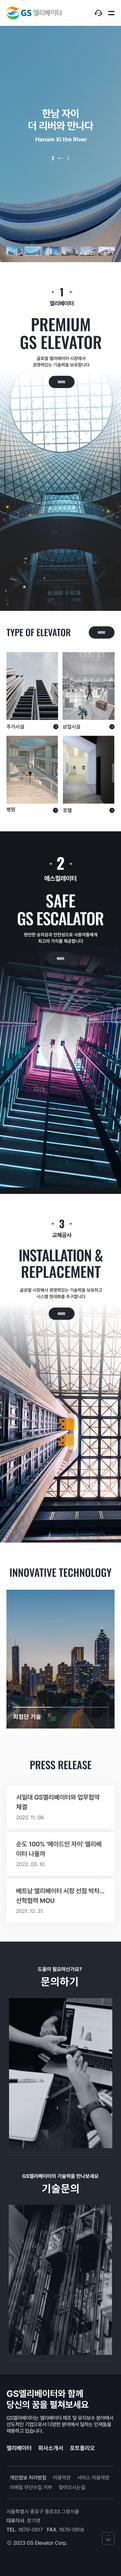
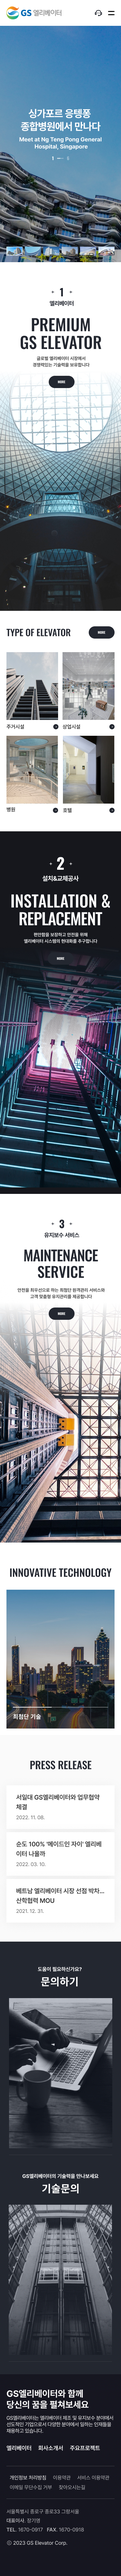
FEAT: 최종(#)

diff --git a/index.html b/index.html
@@ -194,6 +194,9 @@
                                     <div class="swiper-slide">
                                         <img src="./assets/images/img05.jpg" alt="">
                                     </div>
+                                    <div class="swiper-slide">
+                                        <img src="./assets/images/img06.jpg" alt="">
+                                    </div>
                                 </div>
                             </div>
                         </div>
@@ -279,7 +282,7 @@
             </section>
             <!-- // -->
             <!-- TECH -->
-            <section class="section main-tech" data-color="default">
+            <section class="section main-tech" data-color="default" data-index="0">
                 <h2 style="text-align:center">
                     <img src="./assets/images/text04.png" alt="">
                 </h2>
@@ -366,7 +369,7 @@
                                     </figure>
                                 </div>
                                 <div class="main-bottom__contents">
-                                    <img src="./assets/images/text06.png" alt="">
+                                    <img src="./assets/images/text07.png" alt="">
                                 </div>
                             </div>
                         </li>
@@ -423,7 +426,7 @@
 
                         if (currentSection === 1) {
                             let scRatio = (scTop - sectionsTop[i]) / sectionsTop[i] / 2;
-                            console.log(scRatio * 100);
+                            // console.log(scRatio * 100);
                             $('#ev01 .floor__inner').css('transform', `translateY(-${scRatio * 100}%)`);
                             $('#ev01 .floor__bg-inner').css('opacity', `1`);
                             $('#ev01 .floor__bg-inner').css('background-position-y', `${scRatio * 100}%`);
@@ -432,7 +435,7 @@
                         }
                         if (currentSection === 2) {
                             let scRatio = (scTop - sectionsTop[i]) / sectionsTop[i] / 2;
-                            console.log(scRatio * 100);
+                            // console.log(scRatio * 100);
                             $('#ev02 .floor__inner').css('transform', `translateY(-${scRatio * 100}%)`);
                             $('#ev01 .floor__bg-inner').css('opacity', `0`);
                             $('#ev02 .floor__bg-inner').css('opacity', `1`);
@@ -441,7 +444,7 @@
                         }
                         if (currentSection === 3) {
                             let scRatio = (scTop - sectionsTop[i]) / sectionsTop[i] / 2;
-                            console.log(scRatio * 100);
+                            // console.log(scRatio * 100);
                             $('#ev03 .floor__inner').css('transform', `translateY(-${scRatio * 100}%)`);
                             $('#ev01 .floor__bg-inner').css('opacity', `0`);
                             $('#ev02 .floor__bg-inner').css('opacity', `0`);
@@ -465,16 +468,16 @@
                 } else {
                     $mainNav.removeClass('fixed');
                 }
-                
                 if (activeSection.data('color') === 'white') {
                     $wrap.addClass('white');
                 } else {
                     $wrap.removeClass('white');
                 }
-                // tech
-                if ($('.main-tech').hasClass('active')) {
+                let onceFirstIndicator = setTimeout(function() {
                     $('.main-tech__indicator > li').eq(0).addClass('active')
-                    // techSwiper.autoplay.start(3000);
+                },100)
+                if ($('.main-tech').hasClass('active')) {
+                    clearTimeout(onceFirstIndicator);   
                 }
             });
 

diff --git a/assets/css/mobile.css b/assets/css/mobile.css
@@ -1,3 +1,51 @@
+@charset "UTF-8";
+/* Pretendard */
+@font-face {
+  font-family: "Pretendard";
+  font-weight: 100;
+  src: local(※), url(../fonts/Pretendard/Pretendard-Thin.woff2) format("woff2"), url(../fonts/Pretendard/Pretendard-Thin.woff) format("woff");
+}
+@font-face {
+  font-family: "Pretendard";
+  font-weight: 300;
+  src: local(※), url(../fonts/Pretendard/Pretendard-Light.woff2) format("woff2"), url(../fonts/Pretendard/Pretendard-Light.woff) format("woff");
+}
+@font-face {
+  font-family: "Pretendard";
+  font-weight: 400;
+  src: local(※), url(../fonts/Pretendard/Pretendard-Regular.woff2) format("woff2"), url(../fonts/Pretendard/Pretendard-Regular.woff) format("woff");
+}
+@font-face {
+  font-family: "Pretendard";
+  font-weight: 500;
+  src: local(※), url(../fonts/Pretendard/Pretendard-Medium.woff2) format("woff2"), url(../fonts/Pretendard/Pretendard-Medium.woff) format("woff");
+}
+@font-face {
+  font-family: "Pretendard";
+  font-weight: 700;
+  src: local(※), url(../fonts/Pretendard/Pretendard-Bold.woff2) format("woff2"), url(../fonts/Pretendard/Pretendard-Bold.woff) format("woff");
+}
+/* Oswald */
+@font-face {
+  font-family: "Oswald";
+  font-weight: 300;
+  src: local(※), url(../fonts/Oswald/Oswald-Light.woff) format("woff");
+}
+@font-face {
+  font-family: "Oswald";
+  font-weight: 400;
+  src: local(※), url(../fonts/Oswald/Oswald-Regular.woff) format("woff");
+}
+@font-face {
+  font-family: "Oswald";
+  font-weight: 500;
+  src: local(※), url(../fonts/Oswald/Oswald-Medium.woff) format("woff");
+}
+@font-face {
+  font-family: "Oswald";
+  font-weight: 700;
+  src: local(※), url(../fonts/Oswald/Oswald-Bold.woff) format("woff");
+}
 /* reset */
 * {
   margin: 0;
@@ -108,4 +156,50 @@ body {
   font-size: 16px;
   text-align: center;
   transition: background-color 0.4s ease;
+}
+
+.btn-top {
+  position: absolute;
+  bottom: 97px;
+  right: 20px;
+  width: 39px;
+  height: 39px;
+  border: 1.5px solid rgba(255, 255, 255, 0.3);
+  border-radius: 3.25px;
+  transition: all 0.5s;
+}
+
+.btn-top span {
+  position: relative;
+  display: inline-block;
+  padding-top: 11px;
+  color: rgba(255, 255, 255, 0.3);
+  font-size: 10px;
+  font-family: "Oswald";
+  font-weight: 600;
+  transition: all 0.5s;
+}
+
+.btn-top span::before {
+  content: "";
+  position: absolute;
+  top: 0;
+  left: 50%;
+  width: 7px;
+  height: 4px;
+  margin-left: -3.5px;
+  background: url(../images/icon_arrow-top.svg);
+  transition: all 0.5s;
+}
+
+.btn-top:hover {
+  border-color: #A5684C;
+}
+
+.btn-top:hover span {
+  color: #A5684C;
+}
+
+.btn-top:hover span::before {
+  background: url(../images/icon_arrow-top-on.svg);
 }/*# sourceMappingURL=mobile.css.map */

diff --git a/assets/css/mobile.scss b/assets/css/mobile.scss
@@ -1,4 +1,6 @@
 @charset "UTF-8";
+@import "_font";
+@import "_variables";
 /* reset */
 * {margin:0;padding:0;vertical-align:top;box-sizing:border-box}
 ul,li,ol {list-style:none}
@@ -18,3 +20,47 @@ body {font-family:'Spoqa Han Sans Neo',sans-serif;font-size:0}
 .mobile {position:absolute;top:50%;left:50%;width:436px;height:878px;transform:translate(-50%, -50%);background:url(../images/m/mockup.png) no-repeat center top;background-size:contain}
 .mo-content {overflow-y:scroll;overflow-x:hidden;position:absolute;top:107px;left:31px;width:375px;height:666px;color:#fff;background:#101111}
 .mobox {position:relative;font-size:16px;text-align:center;transition:background-color 0.4s ease}
+
+
+// top
+
+.btn-top {
+    position:absolute;
+    bottom:97px;
+    right:20px;
+    width:39px;
+    height:39px;
+    border:1.5px solid rgba(255, 255, 255, 0.3);
+    border-radius:3.25px;
+    transition:all 0.5s;
+}
+.btn-top span {
+    position:relative;
+    display:inline-block;
+    padding-top:11px;
+    color:rgba(255, 255, 255, 0.3);
+    font-size:10px;
+    font-family:'Oswald';
+    font-weight:600;
+    transition:all 0.5s;
+}
+.btn-top span::before {
+    content:'';
+    position:absolute;
+    top:0;
+    left:50%;
+    width:7px;
+    height:4px;
+    margin-left:-3.5px;
+    background:url(../images/icon_arrow-top.svg);
+    transition:all 0.5s;
+}
+.btn-top:hover {
+    border-color:#A5684C;
+}
+.btn-top:hover span {
+    color:#A5684C;
+}
+.btn-top:hover span::before {
+    background:url(../images/icon_arrow-top-on.svg);
+}

diff --git a/assets/script/main.js b/assets/script/main.js
@@ -60,17 +60,22 @@ $(function() {
     const techSwiper = new Swiper('.main-tech__slider', {
         effect:'fade',
         loop:true,
-        autoplay: {
-            delay: 3000,
-            disableOnInteraction: false
-        },
+        // autoplay: {
+        //     delay: 3000,
+        //     disableOnInteraction: false
+        // },
         on : {
             slideChange: function () {
                 $('.main-tech__indicator > li').eq(this.realIndex).addClass('active').siblings().removeClass('active');
             },
+            init: function () {
+                if ($('.main-tech').hasClass('active')) {
+                    console.log('once');
+                }
+            }
         }
     })
-    techSwiper.autoplay.stop();
+    // techSwiper.autoplay.stop();
     $('.main-tech__indicator > li').click(function(){
         var index = $(this).index();
         $(this).addClass('active').siblings().removeClass('active');

diff --git a/mobile.html b/mobile.html
@@ -18,6 +18,9 @@
         <div class="mo-content">
             <div class="mobox">
                 <img src="./assets/images/m/Mobile.jpg" alt="">
+                <button class="btn-top">
+                    <span>TOP</span>
+                </button>
             </div>
         </div>
     </div>
@@ -30,6 +33,12 @@
             $(window).on('load', function () {
                 AOS.refresh();
             });
+
+            function topClickEvent() {
+                $('.mo-content').stop().animate({scrollTop:0}, 1000, "linear");
+                return false;
+            }
+            $('.btn-top').on('click', topClickEvent);
         });
     </script>
 </body>
